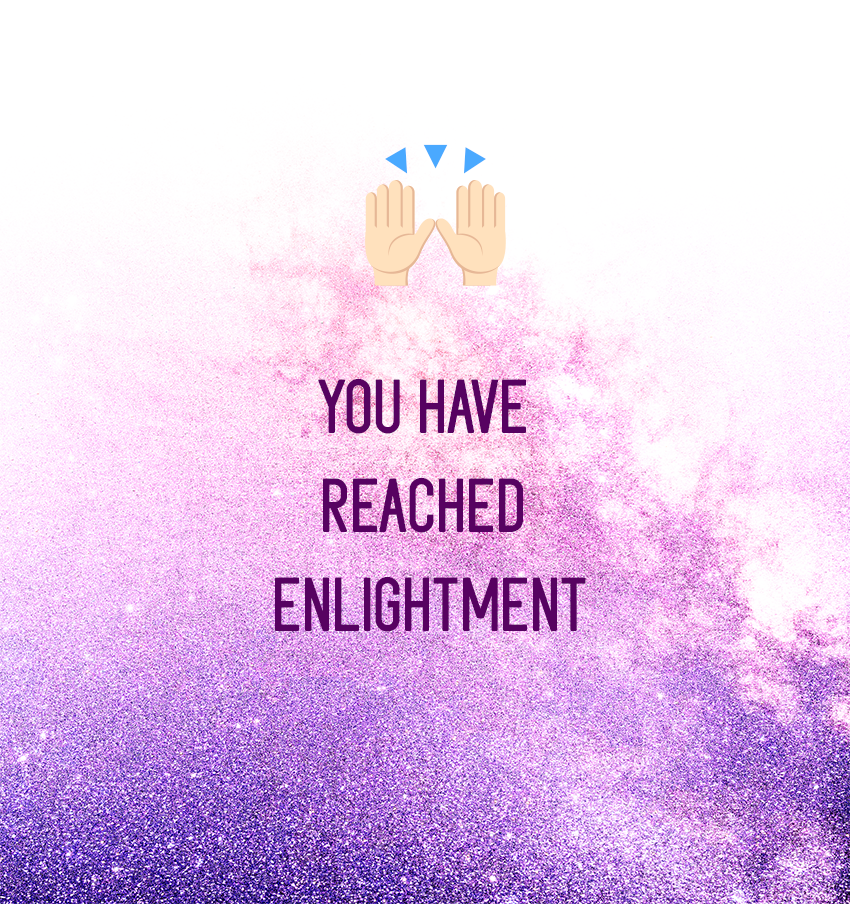
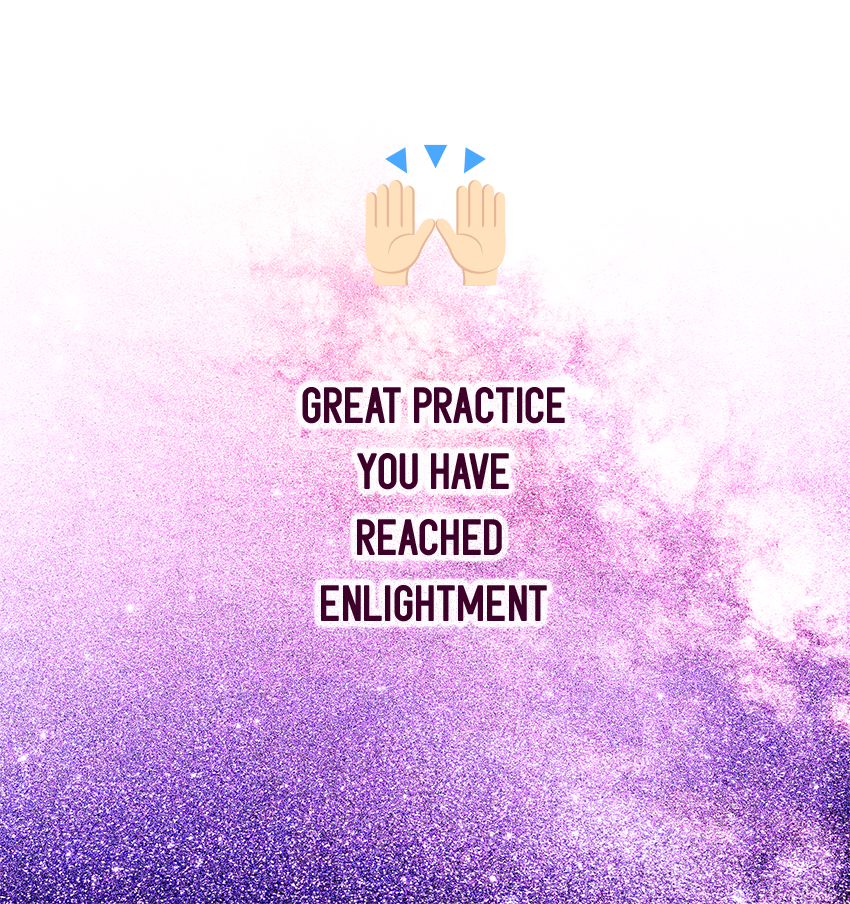
minimum styling done

Changed region(s): [[0.3059, 0.4027, 0.7035, 0.7124]]

diff --git a/index.html b/index.html
@@ -5,16 +5,19 @@
     <meta http-equiv="X-UA-Compatible" content="IE=edge">
     <meta name="viewport" content="width=device-width, initial-scale=1.0">
     <link rel="preconnect" href="https://fonts.gstatic.com">
-    <link href="https://fonts.googleapis.com/css2?family=Zen+Dots&display=swap" rel="stylesheet">
+    <link href="https://fonts.googleapis.com/css2?family=Baloo+Tammudu+2&display=swap" rel="stylesheet">        
     <link rel="stylesheet" href="styles.css" />
     <script src="https://cdn.jsdelivr.net/npm/p5@1.3.1/lib/p5.js"></script>
     <title>Zen Master Game</title>
 </head>
 <body>
-    <!-- <div id= "description">
+    <div id= "description">
         <h1>Zen Master</h1>
-        <p>Lorem ipsum dolor sit amet consectetur adipisicing elit. Aut praesentium, a necessitatibus, corporis recusandae impedit vitae atque in odit accusamus ea perferendis! Pariatur adipisci eos esse quia nostrum impedit nesciunt.</p>
-    </div> -->
+        <div>
+            <p>Use the arrows to control Little Monk</p>
+            <p>Observe thoughts, but don't catch them!</p>
+        </div>
+    </div>
     <script src="src/obstacle.js"></script>
     <script src="src/background.js"></script>
     <script src="src/player.js"></script>

diff --git a/styles.css b/styles.css
@@ -1,28 +1,35 @@
 body {
     display: flex;
     flex-direction: row;
-    justify-content: center;
+    justify-content: end;
     align-items: center;
     margin-top: 0;
     margin-bottom: 0;
     background-color: rgb(61, 2, 32); 
 }
 
-/* #description {
+#description {
     display: flex;
     flex-direction: column;
     justify-content: center;
     align-items: center;
     margin-left: 3%;
     margin-right: 3%;
+    background-color: rgb(31, 2, 17);
+    border-radius: 5%;
+    padding-right: 2%;
+    padding-left: 2%;
+    padding-bottom: 2%;
 }
 
 h1 {
-    font-family: 'Zen Dots', cursive;
-    color: white;    
+    font-family: 'Baloo Tammudu 2', cursive;
+    color: white;
+    font-size: 3rem;    
 }
 
 p {
-    font-family: 'Zen Dots', cursive;
+    font-family: 'Baloo Tammudu 2', cursive;
     color: white;
-} */
+    font-size: 1.2rem;
+} 

diff --git a/src/background.js b/src/background.js
@@ -23,6 +23,8 @@ class Background {
         }
         if (frameCount >= 3200 && game.score >= 950) {
             image(game.backgroundImages[5], 0, 0, width, height);
+            //stop obstacles
+            stopDraw();
         }
         if (game.score < 950) {
             noLoop();
